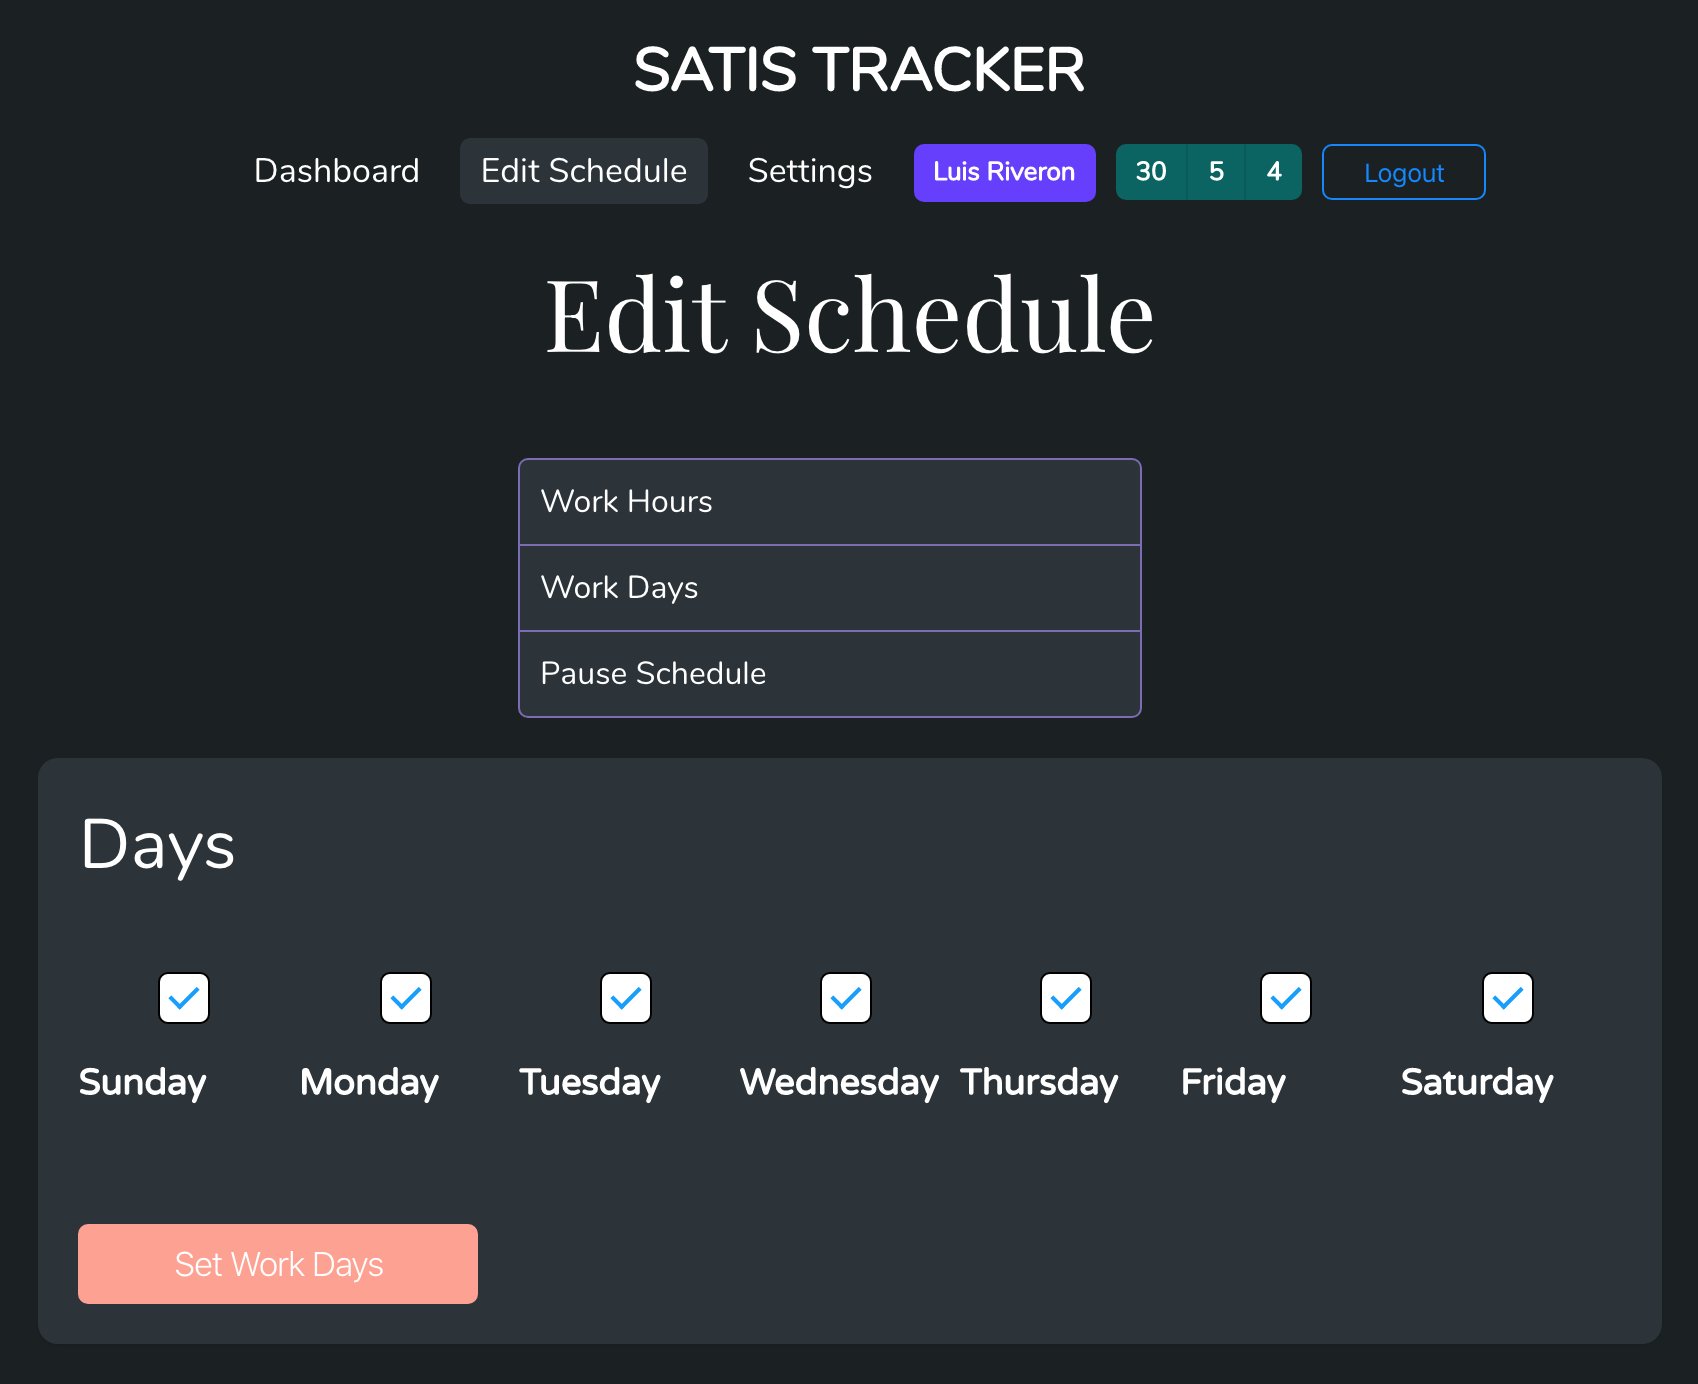
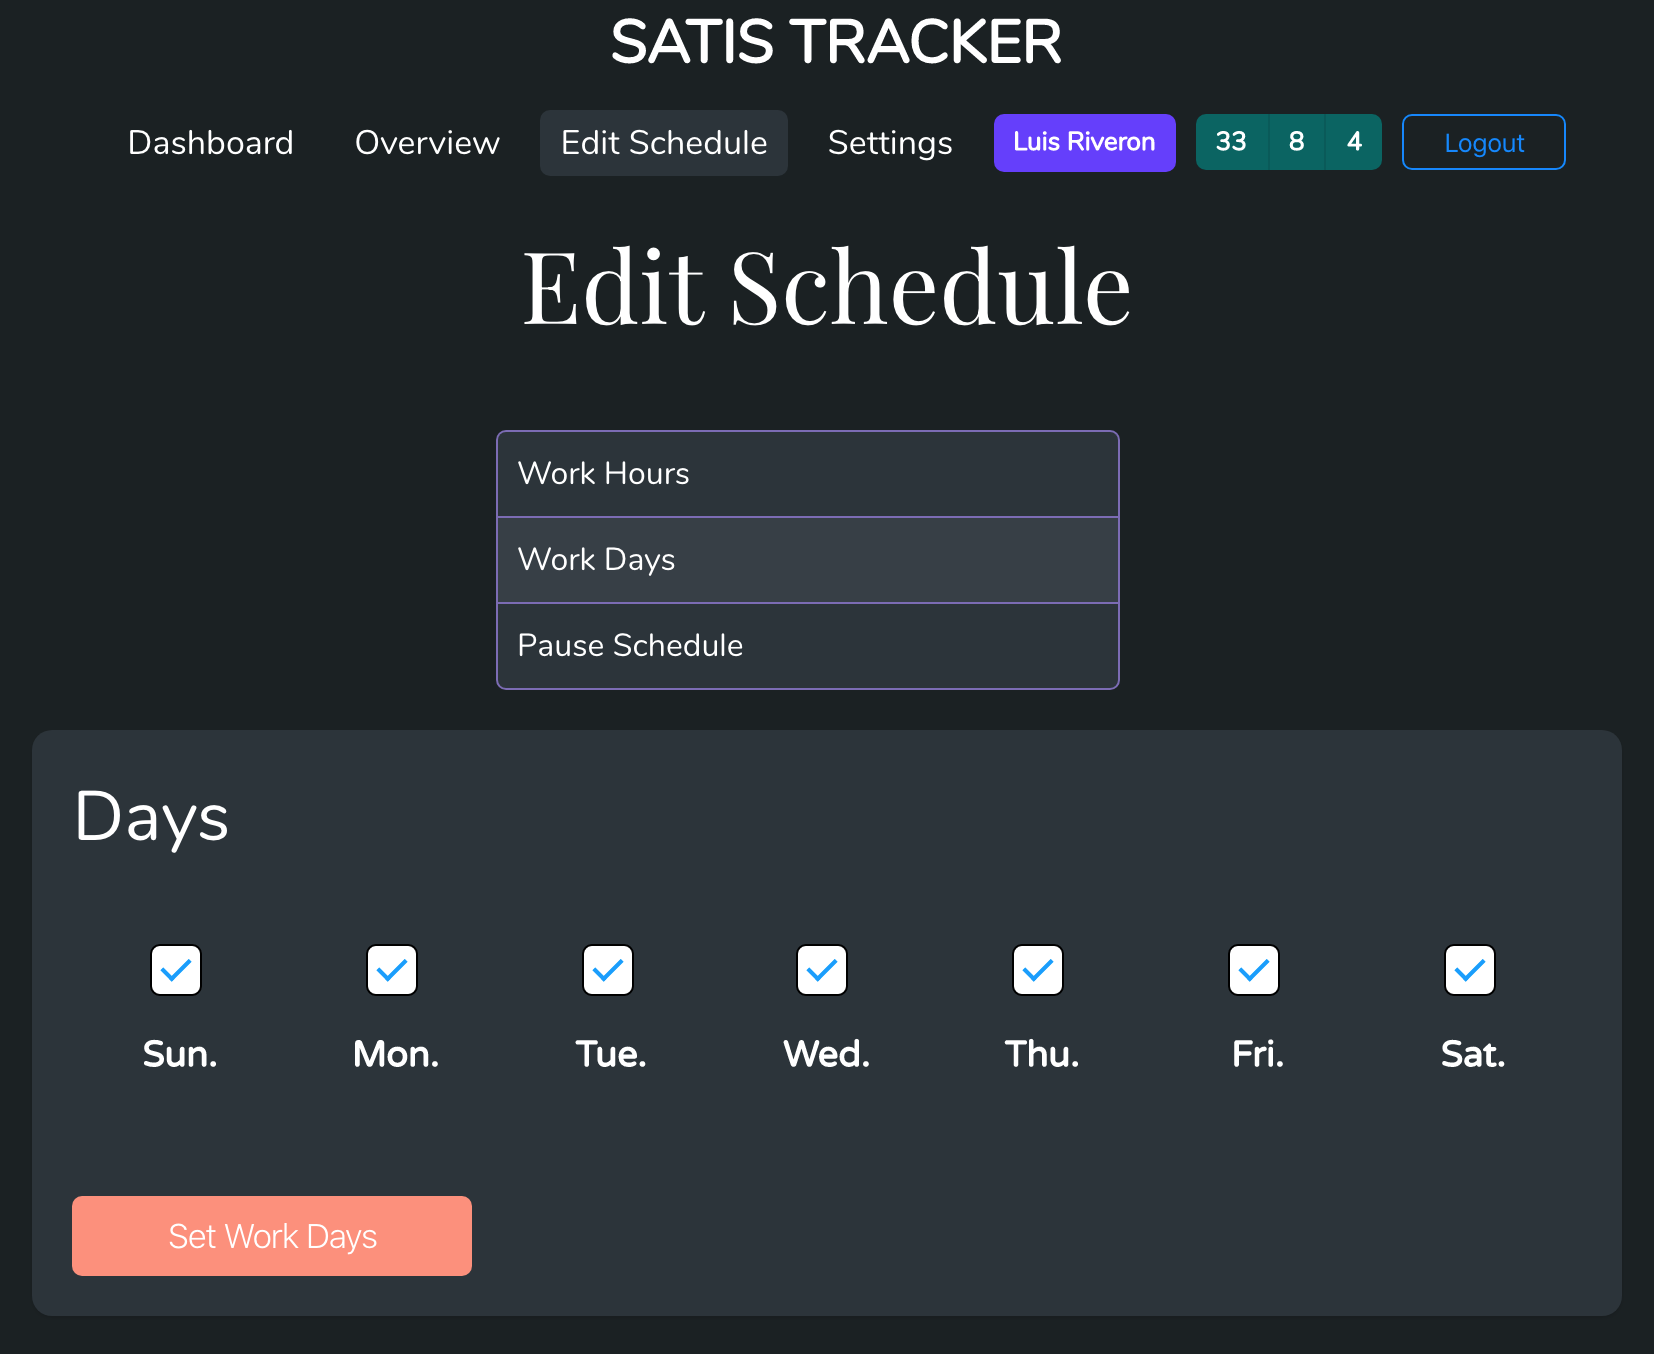
README.md screenshots update

diff --git a/README.md b/README.md
@@ -26,6 +26,9 @@ Every reported day is saved to the database (MongoDB) and displayed as a monthly
 ## Post Report
 ![Satis Tracker Post Report](public/Screenshots/PostReportSatisTracker.png)
 
+## Overivew
+![Satis Tracker Overview](public/Screenshots/OverviewSatisTracker.png)
+
 ## Edit Schedule
 ![Satis Tracker Hours Edit Schedule](public/Screenshots/EditScheduleHoursSatisTracker.png)
 
